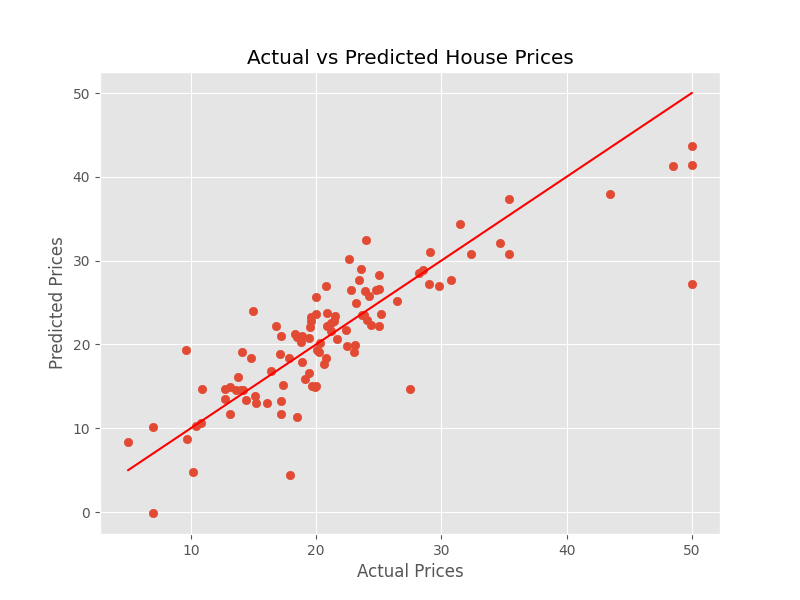
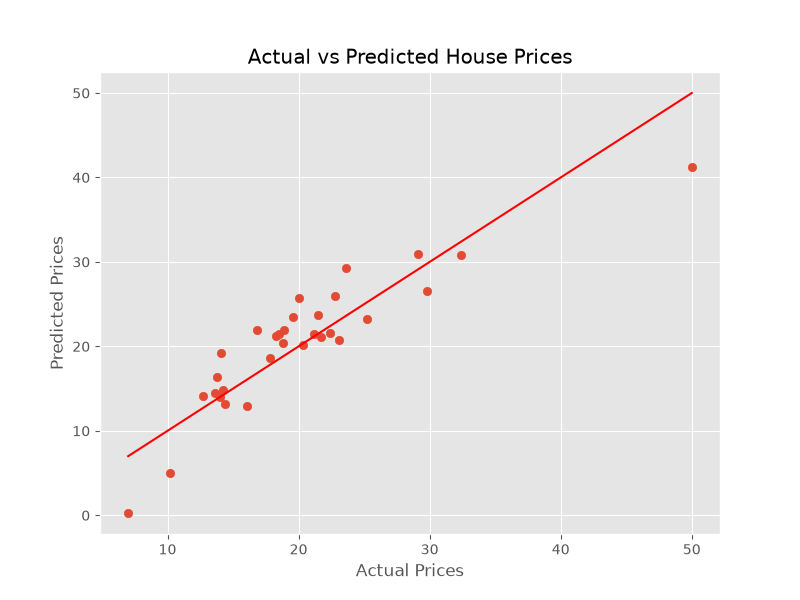
Push all commit DA-house

diff --git a/main.py b/main.py
@@ -88,41 +88,41 @@ plt.show()
 # ==============================
 # 4. Room Number vs Price
 # ==============================
-plt.figure(figsize=(8,6))
-sns.scatterplot(x=df['room_num'], y=df['price'])
-plt.title("Number of Rooms vs House Price")
-plt.xlabel("Number of Rooms")
-plt.ylabel("House Price")
-plt.show()
-# ==============================
-# 5. Air Quality vs Price
-# ==============================
-plt.figure(figsize=(8,6))
-sns.scatterplot(x=df['air_qual'], y=df['price'])
-plt.title("Air Quality vs House Price")
-plt.xlabel("Air Quality")
-plt.ylabel("House Price")
-plt.show()
+# plt.figure(figsize=(8,6))
+# sns.scatterplot(x=df['room_num'], y=df['price'])
+# plt.title("Number of Rooms vs House Price")
+# plt.xlabel("Number of Rooms")
+# plt.ylabel("House Price")
+# plt.show()
 # # ==============================
-# # 6. Price Distribution Histogram
+# # 5. Air Quality vs Price
 # # ==============================
-plt.figure(figsize=(8,5))
-sns.histplot(df['price'], bins=30, kde=True)
-plt.title("Price Distribution")
-plt.xlabel("House Price")
-plt.ylabel("Frequency")
-plt.show()
-# # ==============================
-# # 7. Predicted vs Actual Prices (with Residuals)      
-# # ==============================
-plt.figure(figsize=(8,6))           
-sns.scatterplot(x=y_test, y=y_pred, hue=residuals, palette='coolwarm', edgecolor='k')
-plt.plot([y_test.min(), y_test.max()], [y_test.min(), y_test.max()], color='red')
-plt.xlabel("Actual Prices") 
-plt.ylabel("Predicted Prices")
-plt.title("Predicted vs Actual Prices (Colored by Residuals)")
-plt.legend(title='Residuals', loc='upper left')
-plt.show()
+# plt.figure(figsize=(8,6))
+# sns.scatterplot(x=df['air_qual'], y=df['price'])
+# plt.title("Air Quality vs House Price")
+# plt.xlabel("Air Quality")
+# plt.ylabel("House Price")
+# plt.show()
+# # # ==============================
+# # # 6. Price Distribution Histogram
+# # # ==============================
+# plt.figure(figsize=(8,5))
+# sns.histplot(df['price'], bins=30, kde=True)
+# plt.title("Price Distribution")
+# plt.xlabel("House Price")
+# plt.ylabel("Frequency")
+# plt.show()
+# # # ==============================
+# # # 7. Predicted vs Actual Prices (with Residuals)      
+# # # ==============================
+# plt.figure(figsize=(8,6))           
+# sns.scatterplot(x=y_test, y=y_pred, hue=residuals, palette='coolwarm', edgecolor='k')
+# plt.plot([y_test.min(), y_test.max()], [y_test.min(), y_test.max()], color='red')
+# plt.xlabel("Actual Prices") 
+# plt.ylabel("Predicted Prices")
+# plt.title("Predicted vs Actual Prices (Colored by Residuals)")
+# plt.legend(title='Residuals', loc='upper left')
+# plt.show()
 ###
 # # ==============================
 # # 6. Feature Correlation Heatmap

diff --git a/src/data_preprocessing.py b/src/data_preprocessing.py
@@ -11,8 +11,10 @@ def clean_data(df):
 
 def split_features_target(df, target):
     X = df.drop(target, axis=1)
+    print(f"Features before one-hot encoding: {X.columns.tolist()}")
     y = df[target]
     X = pd.get_dummies(X, drop_first=True)
+    print(f"Features after one-hot encoding: {X.columns.tolist()}")
     return X, y
 
 def scale_features(X):

diff --git a/src/train.py b/src/train.py
@@ -4,7 +4,7 @@ import joblib
 
 def train_model(X, y):
     X_train, X_test, y_train, y_test = train_test_split(
-        X, y, test_size=0.2, random_state=42
+        X, y, test_size=0.06, random_state=42
     )
 
     model = LinearRegression()
